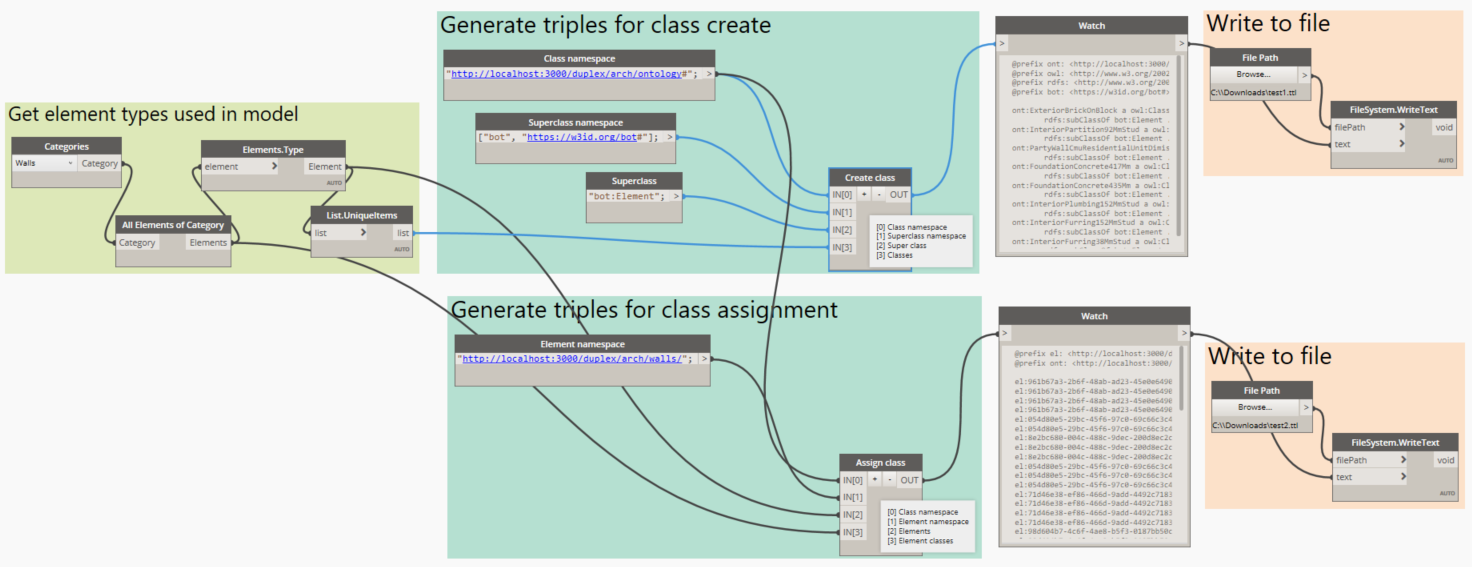
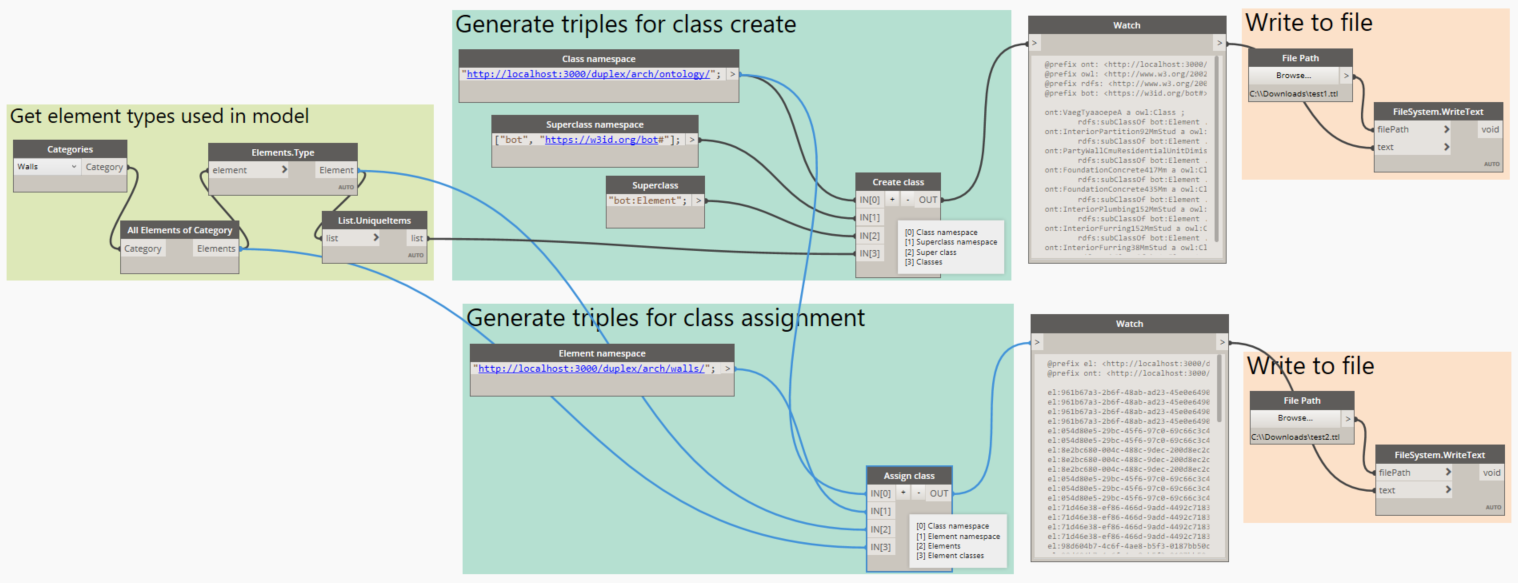
Using / instead of # in ontology URIs

diff --git a/tools/dynamo-scripts/readme.md b/tools/dynamo-scripts/readme.md
@@ -8,7 +8,7 @@ Class:      `{prefix}:{RevitTypeName}` (special characters removed and converted
 The prefix can be set to anything but for them to work with the OPM-REST API, it should have the following form:
 
 Instance:   `{host}/{projectNumber}/{discipline}/{type}/{id}`
-Class:      `{host}/{projectNumber}/{discipline}/ontology#{ClassName}`
+Class:      `{host}/{projectNumber}/{discipline}/ontology/{ClassName}`
 
 | Item          | Description                                                               | Example                  |
 | ------------- |:------------------------------------------------------------------------- | ------------------------ |
@@ -21,7 +21,7 @@ Class:      `{host}/{projectNumber}/{discipline}/ontology#{ClassName}`
 
 Examples:
 Instance:   `http://niras.dk/projects/105519/arch/walls/2c391822-07f8-4a22-86a8-a1e574103a53-0002dd93`
-Class:      `http://niras.dk/projects/105519/arch/ontology#HeavyWall`
+Class:      `http://niras.dk/projects/105519/arch/ontology/HeavyWall`
 
 ### 1. class-assignment
 The `class-assignment.dyn` Dynamo script does the following:
